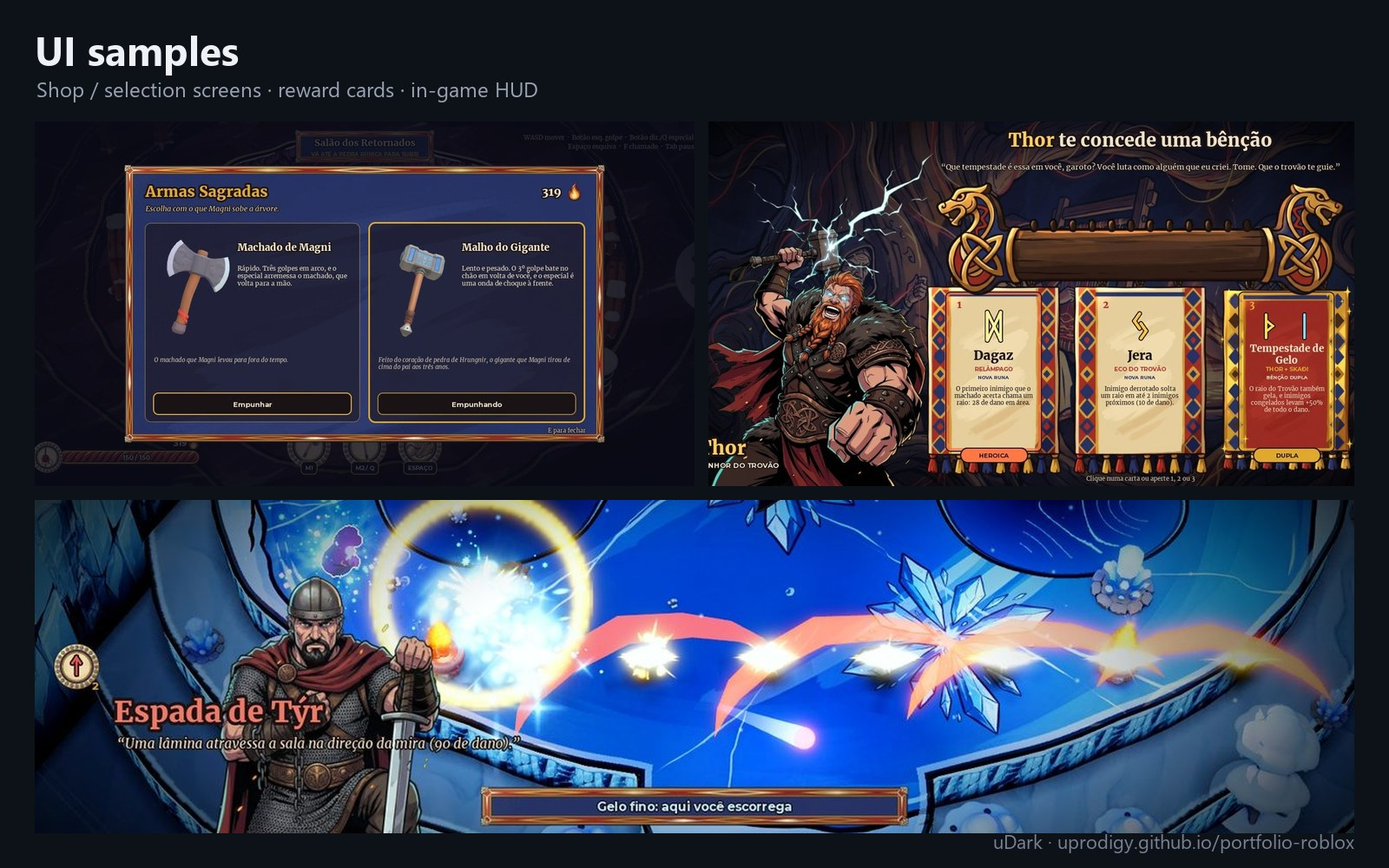
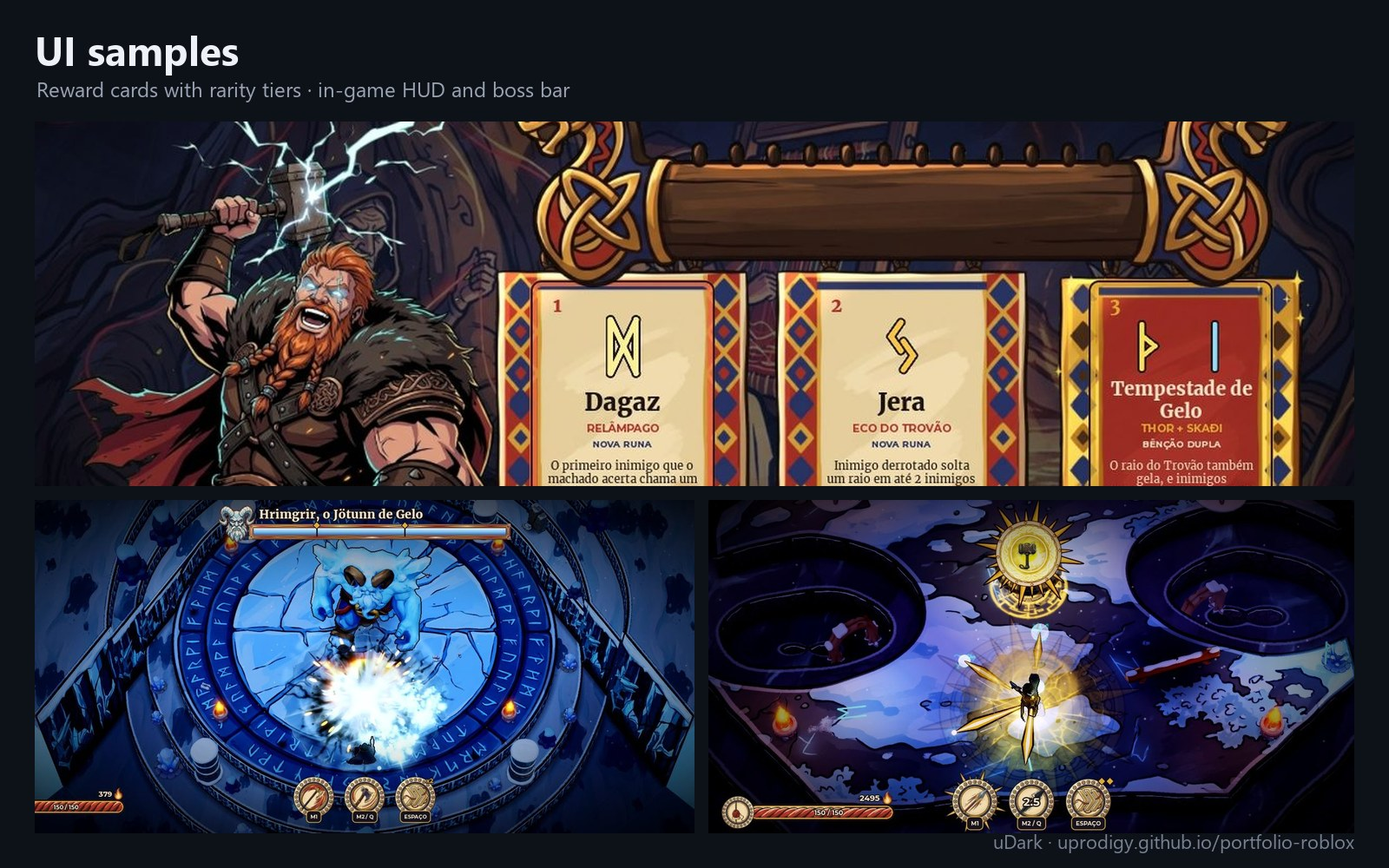
Add files via upload

diff --git a/portfolio-roblox.html b/portfolio-roblox.html
@@ -4,137 +4,205 @@
 <meta charset="utf-8">
 <meta name="viewport" content="width=device-width, initial-scale=1">
 <title>Gabriel | Roblox Developer</title>
-<meta name="description" content="Roblox developer portfolio: scripting, systems, UI, VFX, building and UGC.">
+<meta name="description" content="Roblox developer portfolio: maps and level design, combat systems, VFX, UI and UGC.">
+<meta property="og:title" content="Gabriel | Roblox Developer">
+<meta property="og:image" content="https://uprodigy.github.io/rbx-ymap-lake.jpg">
 <link rel="preconnect" href="https://fonts.googleapis.com">
 <link href="https://fonts.googleapis.com/css2?family=Space+Grotesk:wght@500;700&family=Inter:wght@400;500;600&display=swap" rel="stylesheet">
 <style>
-:root{--bg:#0e1117;--card:#161b24;--ink:#eef1f6;--soft:#9aa3b2;--line:#252c38;--accent:#5fb3ff;--accent2:#ffb648}
+:root{--bg:#0b0e14;--bg2:#0f141c;--card:#141a24;--card2:#18202c;--ink:#eef2f8;--soft:#9ba5b6;--line:#232b38;--accent:#6cc4ff;--accent2:#ffb954;--glow:rgba(108,196,255,.18)}
 *{box-sizing:border-box;margin:0}
-body{background:var(--bg);color:var(--ink);font:16px/1.6 Inter,system-ui,sans-serif}
-.wrap{max-width:1080px;margin:0 auto;padding:0 20px}
-header{padding:72px 0 40px}
-.tag{font-size:13px;font-weight:600;letter-spacing:.08em;text-transform:uppercase;color:var(--accent)}
-h1{font-family:"Space Grotesk",sans-serif;font-size:clamp(38px,7vw,64px);line-height:1.05;margin:10px 0 16px}
-.lead{font-size:clamp(17px,2.3vw,20px);color:var(--soft);max-width:700px}
-.chips{display:flex;flex-wrap:wrap;gap:8px;margin-top:22px}
-.chip{border:1px solid var(--line);background:var(--card);padding:6px 13px;border-radius:999px;font-size:14px}
-.btns{display:flex;flex-wrap:wrap;gap:10px;margin-top:26px}
-.btn{display:inline-block;padding:12px 20px;border-radius:10px;font-weight:600;text-decoration:none;border:1px solid var(--accent);color:var(--accent)}
-.btn.main{background:var(--accent);color:#06121f}
-.facts{display:grid;grid-template-columns:repeat(4,1fr);gap:12px;margin-top:40px}
-.fact{background:var(--card);border:1px solid var(--line);border-radius:12px;padding:16px}
-.fact b{display:block;font-family:"Space Grotesk",sans-serif;font-size:22px;color:var(--accent2)}
-.fact span{font-size:14px;color:var(--soft)}
-section{padding:44px 0;border-top:1px solid var(--line)}
-h2{font-family:"Space Grotesk",sans-serif;font-size:30px;line-height:1.15}
-.sub{color:var(--accent2);font-weight:600;font-size:14px;letter-spacing:.04em;text-transform:uppercase;margin-bottom:6px}
-.desc{color:var(--soft);max-width:760px;margin:12px 0 18px}
-ul.built{list-style:none;padding:0;display:grid;grid-template-columns:repeat(2,1fr);gap:8px 24px;margin-bottom:24px;max-width:880px}
-ul.built li{padding-left:18px;position:relative;font-size:15px}
-ul.built li:before{content:"";position:absolute;left:0;top:.62em;width:7px;height:7px;border-radius:2px;background:var(--accent)}
-.gallery{display:grid;grid-template-columns:repeat(4,1fr);gap:12px}
-.icons{display:grid;grid-template-columns:repeat(3,1fr);gap:8px;margin-top:14px}
-.icons img{width:100%;border-radius:10px;display:block}
-.gallery figure{background:var(--card);border:1px solid var(--line);border-radius:12px;overflow:hidden}
-.gallery img{width:100%;aspect-ratio:16/10;object-fit:cover;display:block;cursor:zoom-in;transition:transform .25s}
-.gallery figure:hover img{transform:scale(1.03)}
-.gallery figcaption{padding:10px 12px;font-size:13.5px;color:var(--soft)}
-.cards{display:grid;grid-template-columns:repeat(3,1fr);gap:12px;margin-top:20px}
-.card{background:var(--card);border:1px solid var(--line);border-radius:12px;padding:22px}
-.card .k{font-size:12px;font-weight:600;letter-spacing:.06em;text-transform:uppercase;color:var(--accent2)}
-.card h3{font-size:18px;margin:4px 0 8px}
+html{scroll-behavior:smooth}
+body{background:var(--bg);color:var(--ink);font:16px/1.6 Inter,system-ui,sans-serif;-webkit-font-smoothing:antialiased}
+img{display:block;max-width:100%}
+a{color:inherit}
+.wrap{max-width:1160px;margin:0 auto;padding:0 20px}
+
+/* nav */
+nav{position:sticky;top:0;z-index:20;background:rgba(11,14,20,.78);backdrop-filter:blur(12px);border-bottom:1px solid rgba(255,255,255,.06)}
+nav .wrap{display:flex;align-items:center;gap:22px;height:58px}
+nav .logo{font-family:"Space Grotesk",sans-serif;font-weight:700;font-size:18px;text-decoration:none;margin-right:auto}
+nav .logo span{color:var(--accent)}
+nav a.l{text-decoration:none;color:var(--soft);font-size:14.5px;font-weight:500}
+nav a.l:hover{color:var(--ink)}
+nav .cta{padding:8px 14px;border-radius:9px;background:var(--accent);color:#04121f;text-decoration:none;font-weight:600;font-size:14px}
+
+/* hero */
+.hero{position:relative;overflow:hidden;border-bottom:1px solid var(--line)}
+.hero .bg{position:absolute;inset:0;background:url(rbx-ymap-lake.jpg) center 40%/cover;transform:scale(1.04);filter:saturate(1.1)}
+.hero .bg:after{content:"";position:absolute;inset:0;background:linear-gradient(90deg,rgba(11,14,20,.96) 0%,rgba(11,14,20,.86) 42%,rgba(11,14,20,.35) 100%),linear-gradient(0deg,var(--bg) 0%,rgba(11,14,20,0) 40%)}
+.hero .wrap{position:relative;padding:96px 20px 64px}
+.tag{display:inline-flex;align-items:center;gap:8px;font-size:12.5px;font-weight:600;letter-spacing:.1em;text-transform:uppercase;color:var(--accent);background:var(--glow);border:1px solid rgba(108,196,255,.3);padding:6px 12px;border-radius:999px}
+.tag i{width:7px;height:7px;border-radius:50%;background:#4ade80;box-shadow:0 0 10px #4ade80}
+h1{font-family:"Space Grotesk",sans-serif;font-size:clamp(42px,7.5vw,76px);line-height:1.02;margin:18px 0 16px;letter-spacing:-.02em}
+h1 em{font-style:normal;background:linear-gradient(90deg,var(--accent),#b3e1ff);-webkit-background-clip:text;background-clip:text;color:transparent}
+.lead{font-size:clamp(17px,2.2vw,20px);color:#c3cbd8;max-width:620px}
+.chips{display:flex;flex-wrap:wrap;gap:8px;margin-top:24px;max-width:700px}
+.chip{border:1px solid rgba(255,255,255,.12);background:rgba(20,26,36,.7);padding:6px 13px;border-radius:999px;font-size:13.5px;color:#d5dbe5}
+.btns{display:flex;flex-wrap:wrap;gap:10px;margin-top:28px}
+.btn{display:inline-flex;align-items:center;gap:8px;padding:13px 22px;border-radius:11px;font-weight:600;text-decoration:none;border:1px solid rgba(108,196,255,.6);color:var(--accent);transition:transform .15s,box-shadow .15s}
+.btn:hover{transform:translateY(-1px)}
+.btn.main{background:var(--accent);color:#04121f;box-shadow:0 8px 30px rgba(108,196,255,.25)}
+.facts{display:grid;grid-template-columns:repeat(4,1fr);gap:12px;margin-top:48px}
+.fact{background:rgba(20,26,36,.75);border:1px solid rgba(255,255,255,.08);border-radius:14px;padding:16px 18px;backdrop-filter:blur(6px)}
+.fact b{display:block;font-family:"Space Grotesk",sans-serif;font-size:24px;color:var(--accent2)}
+.fact span{font-size:13.5px;color:var(--soft)}
+
+/* sections */
+section{padding:72px 0 8px}
+.head{display:flex;align-items:flex-end;justify-content:space-between;gap:20px;flex-wrap:wrap;margin-bottom:22px}
+.num{font-family:"Space Grotesk",sans-serif;color:var(--accent2);font-weight:700;font-size:14px;letter-spacing:.1em;text-transform:uppercase}
+h2{font-family:"Space Grotesk",sans-serif;font-size:clamp(28px,4vw,40px);line-height:1.1;margin-top:6px;letter-spacing:-.01em}
+.desc{color:var(--soft);max-width:720px;margin-top:10px}
+ul.built{list-style:none;padding:0;display:grid;grid-template-columns:repeat(2,1fr);gap:8px 28px;margin:18px 0 26px;max-width:900px}
+ul.built li{padding-left:20px;position:relative;font-size:15px;color:#d3d9e3}
+ul.built li:before{content:"";position:absolute;left:0;top:.6em;width:8px;height:8px;border-radius:2px;background:var(--accent);box-shadow:0 0 10px var(--glow)}
+
+/* tiles */
+.tile{position:relative;overflow:hidden;border-radius:16px;background:var(--card);border:1px solid var(--line);cursor:zoom-in}
+.tile img{width:100%;height:100%;object-fit:cover;transition:transform .5s ease}
+.tile:hover img{transform:scale(1.04)}
+.tile figcaption{position:absolute;left:0;right:0;bottom:0;padding:28px 14px 12px;font-size:13.5px;color:#e6ebf2;background:linear-gradient(0deg,rgba(6,8,12,.88),rgba(6,8,12,0))}
+.tile figcaption b{display:block;font-family:"Space Grotesk",sans-serif;font-size:16px;color:#fff}
+.bento{display:grid;grid-template-columns:repeat(4,1fr);grid-auto-rows:190px;gap:12px}
+.bento .w2{grid-column:span 2}.bento .h2{grid-row:span 2}
+.strip{display:grid;grid-template-columns:repeat(3,1fr);gap:12px;margin-top:12px}
+.strip .tile{aspect-ratio:16/7}
+.label{display:inline-block;margin:26px 0 10px;font-size:13px;font-weight:600;letter-spacing:.08em;text-transform:uppercase;color:var(--soft)}
+.grid4{display:grid;grid-template-columns:repeat(4,1fr);gap:12px}
+.grid4 .tile{aspect-ratio:16/10}
+.grid4 .wide{grid-column:span 2;aspect-ratio:auto}
+.grid3{display:grid;grid-template-columns:repeat(3,1fr);gap:12px}
+.grid3 .tile{aspect-ratio:16/11}
+
+/* cards */
+.cards{display:grid;grid-template-columns:repeat(3,1fr);gap:12px}
+.card{background:linear-gradient(180deg,var(--card2),var(--card));border:1px solid var(--line);border-radius:16px;padding:22px}
+.card .k{font-size:12px;font-weight:600;letter-spacing:.07em;text-transform:uppercase;color:var(--accent2)}
+.card h3{font-size:19px;margin:4px 0 8px;font-family:"Space Grotesk",sans-serif}
 .card p{color:var(--soft);font-size:15px}
 .card ul{margin:10px 0 0;padding-left:18px;color:var(--soft);font-size:14.5px}
-.ugcs{display:grid;grid-template-columns:repeat(4,1fr);gap:12px;margin-top:20px}
-.ugc{background:radial-gradient(circle at 50% 40%,#232b3a,#141922);border:1px solid var(--line);border-radius:12px;padding:14px;text-decoration:none;color:var(--soft);font-size:13.5px;text-align:center;transition:border-color .2s}
-.ugc:hover{border-color:var(--accent)}
-.ugc img{width:100%;aspect-ratio:1;object-fit:contain;display:block;margin-bottom:8px}
-.steps{counter-reset:s;display:grid;grid-template-columns:repeat(4,1fr);gap:12px;margin-top:20px}
-.step{background:var(--card);border:1px solid var(--line);border-radius:12px;padding:18px}
-.step:before{counter-increment:s;content:counter(s);display:inline-grid;place-items:center;width:28px;height:28px;border-radius:8px;background:var(--accent);color:#06121f;font-weight:700;margin-bottom:8px}
+.icons{display:grid;grid-template-columns:repeat(3,1fr);gap:8px;margin-top:14px}
+.icons img{width:100%;border-radius:10px}
+
+/* ugc */
+.ugcs{display:grid;grid-template-columns:repeat(4,1fr);gap:12px}
+.ugc{background:radial-gradient(circle at 50% 38%,#26303f,#121722 70%);border:1px solid var(--line);border-radius:16px;padding:16px;text-decoration:none;color:var(--soft);font-size:13.5px;text-align:center;transition:border-color .2s,transform .2s}
+.ugc:hover{border-color:var(--accent);transform:translateY(-3px)}
+.ugc img{width:100%;aspect-ratio:1;object-fit:contain;margin-bottom:8px;filter:drop-shadow(0 10px 18px rgba(0,0,0,.45))}
+
+/* steps + footer */
+.steps{counter-reset:s;display:grid;grid-template-columns:repeat(4,1fr);gap:12px}
+.step{background:var(--card);border:1px solid var(--line);border-radius:16px;padding:20px}
+.step:before{counter-increment:s;content:counter(s);display:inline-grid;place-items:center;width:30px;height:30px;border-radius:9px;background:var(--accent);color:#04121f;font-weight:700;margin-bottom:10px}
 .step p{color:var(--soft);font-size:14.5px}
-footer{padding:44px 0 70px;border-top:1px solid var(--line)}
-#lb{position:fixed;inset:0;background:rgba(0,0,0,.9);display:none;align-items:center;justify-content:center;padding:20px;z-index:9}
-#lb img{max-width:100%;max-height:100%;border-radius:8px}
-.gallery.g3{grid-template-columns:repeat(3,1fr)}
-.gallery.g3 img{aspect-ratio:6/5}
-@media (max-width:860px){.facts,.steps,.gallery,.gallery.g3,.ugcs{grid-template-columns:repeat(2,1fr)}}
-@media (max-width:760px){.gallery,.gallery.g3,.cards{grid-template-columns:1fr}ul.built{grid-template-columns:1fr}header{padding:48px 0 28px}}
-.gallery figure.big{grid-column:span 2}
-.gallery figure.big img{aspect-ratio:3.25/1;object-position:50% 30%}
-@media (max-width:760px){.gallery figure.big{grid-column:auto}}
+.step b{color:var(--ink)}
+footer{margin-top:72px;padding:56px 0 80px;border-top:1px solid var(--line);background:radial-gradient(ellipse at 50% 0%,rgba(108,196,255,.08),transparent 60%)}
+footer .wrap{text-align:center}
+footer .desc{margin:12px auto 0}
+footer .btns{justify-content:center}
+
+#lb{position:fixed;inset:0;background:rgba(3,5,8,.94);display:none;align-items:center;justify-content:center;padding:24px;z-index:50;cursor:zoom-out}
+#lb img{max-width:100%;max-height:100%;border-radius:10px;box-shadow:0 20px 60px rgba(0,0,0,.6)}
+
+@media (max-width:900px){.bento{grid-template-columns:repeat(2,1fr);grid-auto-rows:170px}.facts,.steps,.ugcs,.grid4{grid-template-columns:repeat(2,1fr)}.cards,.grid3{grid-template-columns:1fr 1fr}nav a.l{display:none}}
+@media (max-width:640px){.bento{grid-template-columns:1fr;grid-auto-rows:200px}.bento .w2,.bento .h2{grid-column:auto;grid-row:auto}.strip,.grid3,.cards{grid-template-columns:1fr}.grid4 .wide{grid-column:auto;aspect-ratio:16/10}ul.built{grid-template-columns:1fr}.hero .wrap{padding:64px 16px 44px}.wrap{padding:0 16px}}
 </style>
 </head>
 <body>
-<div class="wrap">
-<header>
-  <div class="tag">Roblox Developer · Scripter · Builder</div>
-  <h1>Gabriel</h1>
-  <p class="lead">I build Roblox games end to end: combat and game systems in Luau, UI, VFX, maps and UGC accessories. Clear scope, fixed price, and everything tested in Play before delivery.</p>
-  <div class="chips">
-    <span class="chip">Luau scripting</span><span class="chip">Combat systems</span><span class="chip">DataStores</span><span class="chip">UI / HUD</span><span class="chip">VFX</span><span class="chip">Terrain &amp; maps</span><span class="chip">Blender</span><span class="chip">UGC fitting</span><span class="chip">Monetization</span><span class="chip">Mobile &amp; gamepad</span>
-  </div>
-  <div class="btns">
-    <a class="btn main" href="#contact">Hire me</a>
-    <a class="btn" href="#work">See my work</a>
-  </div>
-  <div class="facts">
-    <div class="fact"><b>2</b><span>original games in development</span></div>
-    <div class="fact"><b>Full loop</b><span>from title screen to boss and back</span></div>
-    <div class="fact"><b>UGC</b><span>accessories published to the Marketplace</span></div>
-    <div class="fact"><b>Fast</b><span>small tasks delivered in 1–3 days</span></div>
+<nav><div class="wrap">
+  <a class="logo" href="#top">Gabriel<span>.</span></a>
+  <a class="l" href="#maps">Maps</a><a class="l" href="#combat">Combat &amp; VFX</a><a class="l" href="#more">Projects</a><a class="l" href="#ugc">UGC</a>
+  <a class="cta" href="#contact">Hire me</a>
+</div></nav>
+
+<header class="hero" id="top">
+  <div class="bg"></div>
+  <div class="wrap">
+    <span class="tag"><i></i>Available for commissions</span>
+    <h1>Roblox <em>maps</em>,<br>systems &amp; VFX</h1>
+    <p class="lead">I build Roblox games end to end: hand-crafted maps and arenas, combat and game systems in Luau, UI, VFX and UGC accessories. Clear scope, fixed price, everything tested in Play before delivery.</p>
+    <div class="chips">
+      <span class="chip">Map &amp; level design</span><span class="chip">Terrain &amp; environments</span><span class="chip">Luau scripting</span><span class="chip">Combat systems</span><span class="chip">VFX</span><span class="chip">UI / HUD</span><span class="chip">Blender</span><span class="chip">UGC</span><span class="chip">Mobile &amp; gamepad</span>
+    </div>
+    <div class="btns">
+      <a class="btn main" href="#contact">Hire me</a>
+      <a class="btn" href="#maps">See my maps</a>
+    </div>
+    <div class="facts">
+      <div class="fact"><b>10+</b><span>combat arenas and rooms built</span></div>
+      <div class="fact"><b>Full loop</b><span>from title screen to boss and back</span></div>
+      <div class="fact"><b>400+</b><span>favorites on my top UGC item</span></div>
+      <div class="fact"><b>1–3 days</b><span>for small tasks</span></div>
+    </div>
   </div>
 </header>
 
-<section id="work">
-  <div class="sub">Original game · Isometric action roguelite</div>
-  <h2>Yggdrasil</h2>
-  <p class="desc">A Norse action roguelite with a complete run loop: title screen, hub, procedurally assembled rooms, a frost-giant boss, then victory or death and back to the hub. (Interface shown in Portuguese.)</p>
+<main class="wrap">
+
+<section id="maps">
+  <div class="head"><div>
+    <div class="num">01 · Map &amp; level design</div>
+    <h2>Yggdrasil arenas</h2>
+    <p class="desc">Every room of my Norse roguelite is built by hand for combat: readable layouts from an isometric camera, layered cliffs that frame the play space, hazards and portals placed for flow, and a distinct look per biome (courtyard, frozen lake, roots, snowfield, throne).</p>
+  </div></div>
+  <div class="bento">
+    <figure class="tile w2 h2"><img src="rbx-ymap-lake.jpg" alt="Frozen lake arena with ice crystals" loading="lazy"><figcaption><b>Frozen lake</b>Ice floor with crystal decals, breathing holes and portal exits</figcaption></figure>
+    <figure class="tile w2"><img src="rbx-ymap-patio.jpg" alt="Rune circle courtyard" loading="lazy"><figcaption><b>Rune courtyard</b>Carved stone circle, braziers and two-tier walls</figcaption></figure>
+    <figure class="tile"><img src="rbx-ymap-roots.jpg" alt="Roots room" loading="lazy"><figcaption><b>Roots</b>Night biome with raised pits</figcaption></figure>
+    <figure class="tile"><img src="rbx-ymap-boss.jpg" alt="Boss arena" loading="lazy"><figcaption><b>Boss arena</b>Frost-giant fight</figcaption></figure>
+    <figure class="tile w2"><img src="rbx-ymap-cliffs.jpg" alt="Snowfield with cliffs" loading="lazy"><figcaption><b>Snowfield</b>Paths, ruins and cliff ledges around the fight</figcaption></figure>
+    <figure class="tile"><img src="rbx-ymap-field.jpg" alt="Snowfield ruins" loading="lazy"><figcaption><b>Ruins</b>Stone props and footpaths</figcaption></figure>
+    <figure class="tile"><img src="rbx-ymap-portals.jpg" alt="Portal room" loading="lazy"><figcaption><b>Portal room</b>Exits to the next rooms</figcaption></figure>
+  </div>
+  <div class="label">Full layouts, top-down</div>
+  <div class="strip">
+    <figure class="tile"><img src="rbx-ymap-top-patio.jpg" alt="Courtyard layout" loading="lazy"><figcaption><b>Courtyard</b></figcaption></figure>
+    <figure class="tile"><img src="rbx-ymap-top-lake.jpg" alt="Lake layout" loading="lazy"><figcaption><b>Frozen lake</b></figcaption></figure>
+    <figure class="tile"><img src="rbx-ymap-top-throne.jpg" alt="Throne layout" loading="lazy"><figcaption><b>Throne room</b></figcaption></figure>
+  </div>
+</section>
+
+<section id="combat">
+  <div class="head"><div>
+    <div class="num">02 · Original game</div>
+    <h2>Yggdrasil: combat, VFX &amp; UI</h2>
+    <p class="desc">A Norse action roguelite with a complete run loop: title screen, hub, procedurally assembled rooms, a frost-giant boss, then victory or death and back to the hub. (Interface shown in Portuguese.)</p>
+  </div></div>
   <ul class="built">
-    <li>Combat: several weapons with light and special attacks, dodge, elites and enemy waves</li>
+    <li>Several weapons with light and special attacks, dodge, elites and enemy waves</li>
     <li>Blessing system with rune upgrades, rarity tiers and dual blessings</li>
     <li>Frost-giant boss fight with a custom boss health bar</li>
     <li>Meta-progression between runs (unlockable weapons)</li>
     <li>Custom HUD, menus and cinematic intro, boss, death and victory scenes</li>
     <li>Mobile and gamepad controls</li>
   </ul>
-  <div class="gallery">
-    <figure class="big"><img src="rbx-ygg-7.jpg" alt="Boss fight against a frost giant" loading="lazy"><figcaption>Boss fight with custom boss health bar</figcaption></figure>
-    <figure><img src="rbx-ygg-2.jpg" alt="Courtyard arena" loading="lazy"><figcaption>Courtyard arena with runic stone circle</figcaption></figure>
-    <figure><img src="rbx-ygg-3.jpg" alt="Frozen lake room" loading="lazy"><figcaption>Frozen lake room with portal and ice hazards</figcaption></figure>
-    <figure><img src="rbx-ygg-5.jpg" alt="Spear spin attack" loading="lazy"><figcaption>Spear spin attack with radial VFX</figcaption></figure>
-    <figure><img src="rbx-ygg-6.jpg" alt="Hammer leap slam" loading="lazy"><figcaption>Hammer leap slam cracking the ground</figcaption></figure>
-    <figure><img src="rbx-ygg-4.jpg" alt="God power activation" loading="lazy"><figcaption>God-power activation slicing across a room</figcaption></figure>
-    <figure><img src="rbx-ygg-8.jpg" alt="Blessing selection cards" loading="lazy"><figcaption>Blessing choice UI: rune cards with rarity tiers</figcaption></figure>
+  <div class="bento">
+    <figure class="tile w2 h2"><img src="rbx-ygg-7.jpg" alt="Boss fight against a frost giant" loading="lazy"><figcaption><b>Boss fight</b>Custom boss health bar and impact VFX</figcaption></figure>
+    <figure class="tile"><img src="rbx-ygg-5.jpg" alt="Spear spin attack" loading="lazy"><figcaption><b>Spear spin</b>Radial VFX</figcaption></figure>
+    <figure class="tile"><img src="rbx-ygg-6.jpg" alt="Hammer leap slam" loading="lazy"><figcaption><b>Hammer slam</b>Ground crack</figcaption></figure>
+    <figure class="tile w2"><img src="rbx-ygg-8.jpg" alt="Blessing selection cards" loading="lazy"><figcaption><b>Blessing UI</b>Rune cards with rarity tiers</figcaption></figure>
   </div>
 </section>
 
-<section id="map">
-  <div class="sub">Map building · Pet Simulator style</div>
-  <h2>Crystal Meadow zone</h2>
-  <p class="desc">A sample simulator zone I built as a layout reference: a closed meadow ringed by two-tier cliffs, a curved path from the entrance to a locked Zone 2 gate, open fields for breakables and an egg station you can see from the entrance.</p>
-  <ul class="built">
-    <li>170 × 230 stud playable area, entrance courtyard and exit corridor</li>
-    <li>26 breakables in 6 fields, kept clear of the path and the water</li>
-    <li>Egg station on a raised platform with stairs, lanterns and price label</li>
-    <li>Locked Zone 2 gate with barrier and unlock price, ready for a purchase script</li>
-    <li>VFX: layered waterfall with mist and rainbow, pollen, stream glints, coin sparkles, snow drifting from the Zone 2 gate</li>
-    <li>70 reused meshes, no unions, free assets scanned for backdoors</li>
-    <li>Scripted placement check: nothing floating, buried, overlapping or on the path</li>
-  </ul>
-  <div class="gallery g3">
-    <figure><img src="rbx-map-1.jpg" alt="Aerial view of the Crystal Meadow zone" loading="lazy"><figcaption>Full zone, entrance at the bottom, Zone 2 gate at the top</figcaption></figure>
-    <figure><img src="rbx-map-2.jpg" alt="View from the entrance gate down the curved path" loading="lazy"><figcaption>Entrance: path, egg and crystal landmark in one view</figcaption></figure>
-    <figure><img src="rbx-map-3.jpg" alt="Wooden bridge over the stream" loading="lazy"><figcaption>Stream and bridge, waterfall and rainbow in the back</figcaption></figure>
-    <figure><img src="rbx-map-4.jpg" alt="Egg on a raised platform" loading="lazy"><figcaption>Egg station on a raised platform</figcaption></figure>
-    <figure><img src="rbx-map-5.jpg" alt="Locked Zone 2 gate" loading="lazy"><figcaption>Locked Zone 2 gate, snow drifting in from the next zone</figcaption></figure>
-    <figure><img src="rbx-map-6.jpg" alt="Waterfall with mist and a rainbow feeding the stream" loading="lazy"><figcaption>Waterfall VFX: flowing beams, foam, mist and rainbow</figcaption></figure>
+<section id="sim">
+  <div class="head"><div>
+    <div class="num">03 · Simulator zone</div>
+    <h2>Crystal Meadow</h2>
+    <p class="desc">A pet-simulator style zone: a closed meadow ringed by two-tier cliffs, a curved path from the entrance to a locked Zone 2 gate, fields for breakables and an egg station visible from the entrance. Layout scripted-checked so nothing floats, overlaps or blocks the path.</p>
+  </div></div>
+  <div class="grid3">
+    <figure class="tile"><img src="rbx-map-1.jpg" alt="Aerial view of the Crystal Meadow zone" loading="lazy"><figcaption><b>Full zone</b>Entrance to Zone 2 gate</figcaption></figure>
+    <figure class="tile"><img src="rbx-map-3.jpg" alt="Wooden bridge over the stream" loading="lazy"><figcaption><b>Stream and bridge</b>Waterfall and rainbow behind</figcaption></figure>
+    <figure class="tile"><img src="rbx-map-6.jpg" alt="Waterfall with mist and a rainbow" loading="lazy"><figcaption><b>Waterfall VFX</b>Beams, foam, mist</figcaption></figure>
   </div>
 </section>
 
-<section>
-  <div class="sub">More projects</div>
-  <h2>Systems, simulators &amp; UGC</h2>
+<section id="more">
+  <div class="head"><div>
+    <div class="num">04 · More projects</div>
+    <h2>Systems, simulators &amp; UGC</h2>
+  </div></div>
   <div class="cards">
     <div class="card"><div class="k">Original game · Co-op strategy</div><h3>Stop the Lava!</h3><p>Dig channels and raise walls on deformable terrain to steer an erupting volcano's lava away from a village.</p>
       <ul><li>Height-map terrain written to Terrain voxels in real time</li><li>Grid-based lava flow simulation</li><li>Waves, new islands, tools, talents and rebirth</li><li>DataStore saves, quests and a game-pass shop</li></ul>
@@ -147,9 +215,11 @@ footer{padding:44px 0 70px;border-top:1px solid var(--line)}
 </section>
 
 <section id="ugc">
-  <div class="sub">Published on the Marketplace</div>
-  <h2>UGC accessories</h2>
-  <p class="desc">A selection of the most-favorited items I modeled, fitted and published under my group's store. Click any item to see it on Roblox.</p>
+  <div class="head"><div>
+    <div class="num">05 · Published on the Marketplace</div>
+    <h2>UGC accessories</h2>
+    <p class="desc">The most-favorited items I modeled, fitted and published under my group's store. Click any item to see it on Roblox.</p>
+  </div></div>
   <div class="ugcs">
     <a class="ugc" href="https://www.roblox.com/catalog/135209200345716" target="_blank" rel="noopener"><img src="rbx-ugc-1.png" alt="Liebe Black Clover" loading="lazy"><span>Liebe Black Clover</span></a>
     <a class="ugc" href="https://www.roblox.com/catalog/124017592141446" target="_blank" rel="noopener"><img src="rbx-ugc-2.png" alt="Hedwig Harry Potter Owl" loading="lazy"><span>Hedwig Harry Potter Owl</span></a>
@@ -163,8 +233,10 @@ footer{padding:44px 0 70px;border-top:1px solid var(--line)}
 </section>
 
 <section>
-  <div class="sub">How I work</div>
-  <h2>Simple and paid per milestone</h2>
+  <div class="head"><div>
+    <div class="num">06 · How I work</div>
+    <h2>Simple and paid per milestone</h2>
+  </div></div>
   <div class="steps">
     <div class="step"><p><b>Brief.</b> You send the task and references.</p></div>
     <div class="step"><p><b>Quote.</b> Fixed price and delivery date, split into milestones.</p></div>
@@ -172,16 +244,19 @@ footer{padding:44px 0 70px;border-top:1px solid var(--line)}
     <div class="step"><p><b>Deliver.</b> Clean .rbxl / model file, plus one round of fixes.</p></div>
   </div>
 </section>
+</main>
 
-<footer id="contact">
-  <h2>Let's work together</h2>
-  <p class="desc">Scripted systems (shops, inventories, DataStores, combat), UI implementation, bug fixes, maps and props, UGC items. Send me your task and I'll reply with a fixed price and a delivery date.</p>
+<footer id="contact"><div class="wrap">
+  <div class="num">Let's work together</div>
+  <h2>Got a map, system or asset in mind?</h2>
+  <p class="desc">Maps and arenas, scripted systems (shops, inventories, DataStores, combat), UI, VFX, props and UGC items. Send me your task and I'll reply with a fixed price and a delivery date.</p>
   <div class="btns"><span class="btn main">Discord: uDarkdev_</span><a class="btn" href="https://github.com/uProdigy" target="_blank" rel="noopener">GitHub</a></div>
-</footer>
-</div>
+</div></footer>
+
 <div id="lb" onclick="this.style.display='none'"><img alt=""></div>
 <script>
-document.querySelectorAll('.gallery img').forEach(i=>i.addEventListener('click',()=>{const lb=document.getElementById('lb');lb.querySelector('img').src=i.src;lb.style.display='flex'}));
+document.querySelectorAll('.tile img').forEach(i=>i.parentElement.addEventListener('click',()=>{const lb=document.getElementById('lb');lb.querySelector('img').src=i.src;lb.style.display='flex'}));
+document.addEventListener('keydown',e=>{if(e.key==='Escape')document.getElementById('lb').style.display='none'});
 </script>
 </body>
 </html>
